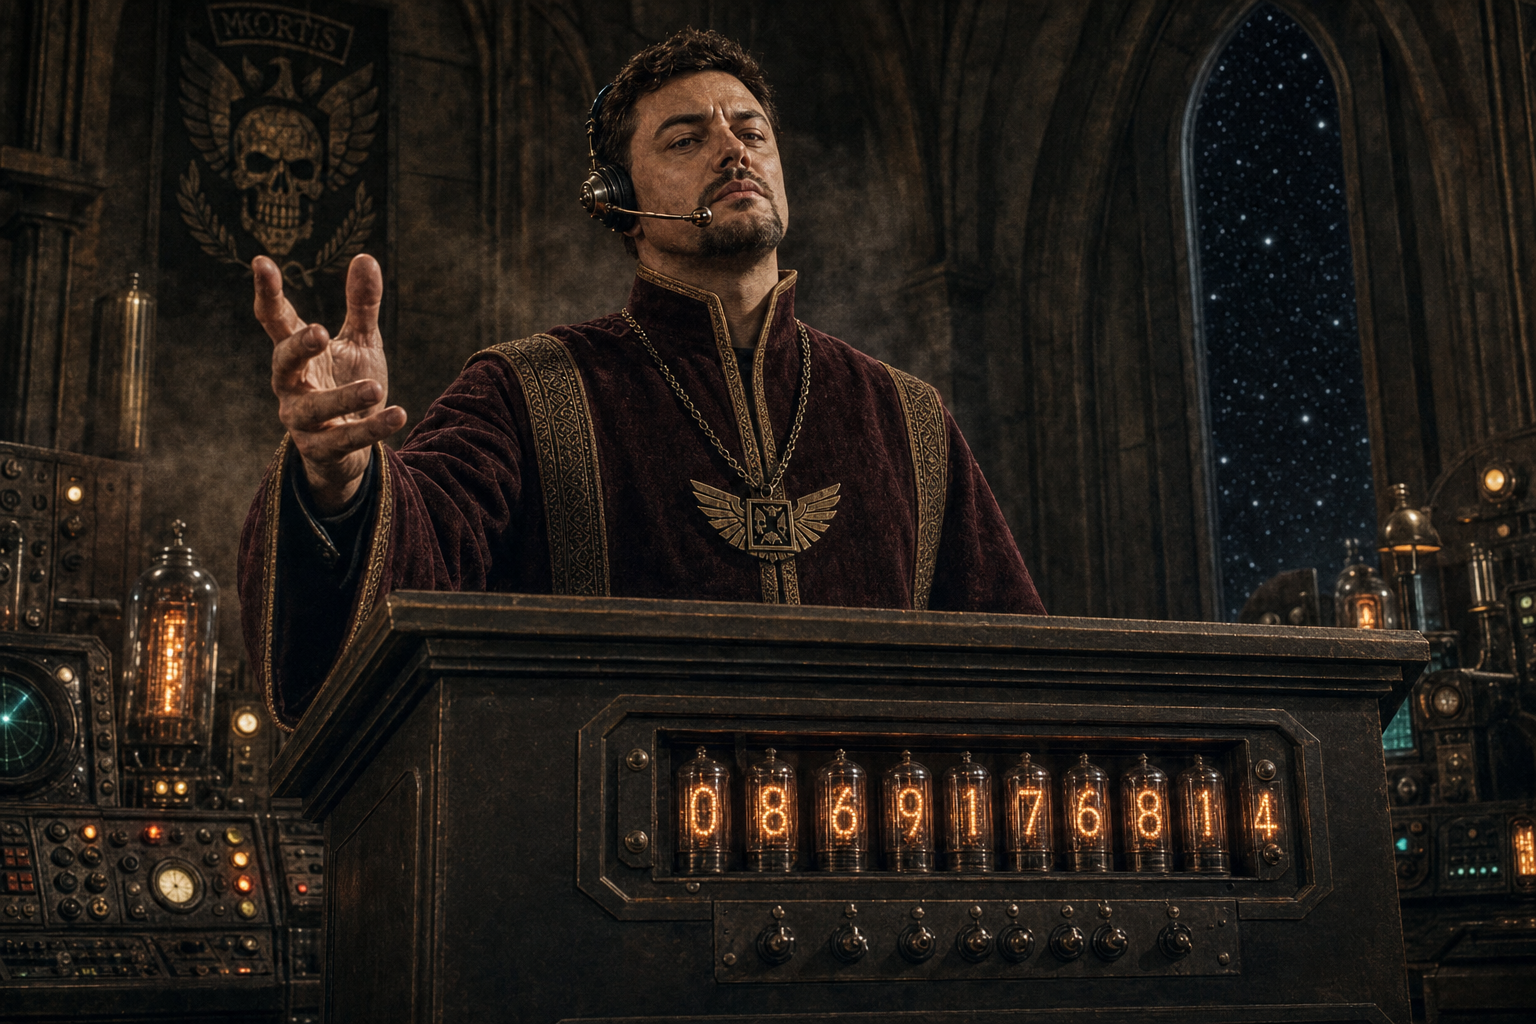
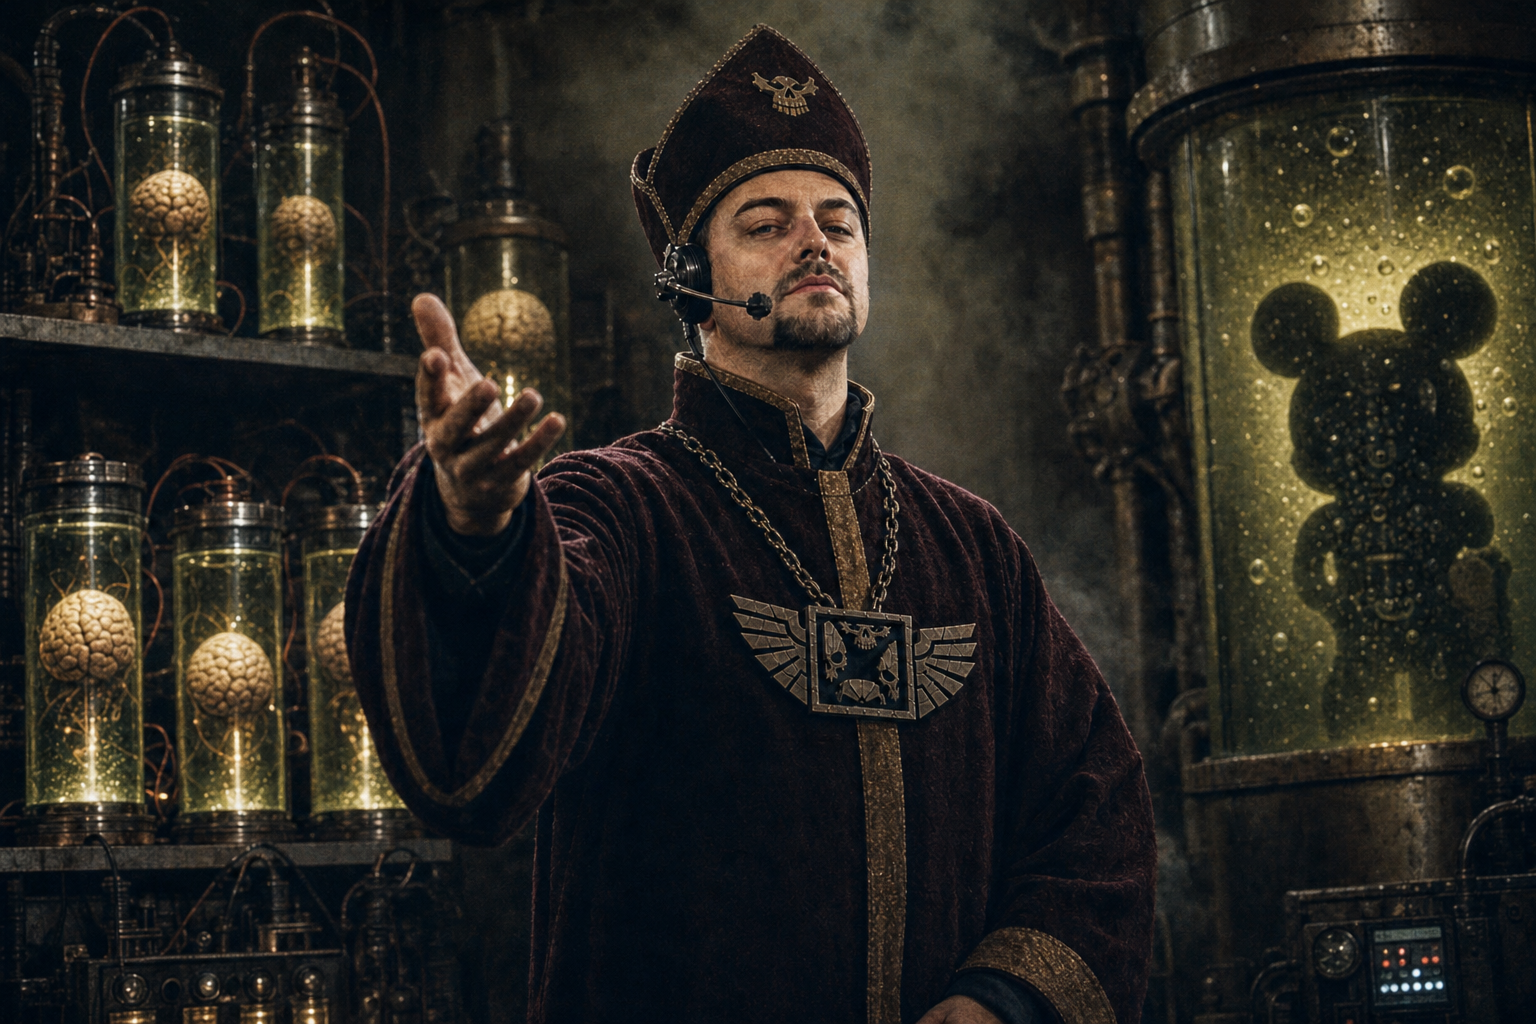
fix(presentation): remove duplicate navbar button, remove hero badge row, update Egor portrait to canonical v14

diff --git a/index.html b/index.html
@@ -1224,7 +1224,6 @@
           <li><a href="#universe">// Вселенная</a></li>
           <li><a href="#dramaturgy">// Драматургия & ML</a></li>
           <li><a href="#crew">// Табель о рангах</a></li>
-          <li><a href="#playable-area" class="active">Смотреть кибербуллинг</a></li>
         </ul>
       </nav>
 
@@ -1240,13 +1239,6 @@
   <section class="hero-section" id="hero">
     <div class="container hero-grid">
       <div class="hero-text-col">
-        <div class="hero-badge-row">
-          <div class="hero-pill">[ QUI CISTAM ]</div>
-          <div class="hero-pill hero-pill-green">[ ЕДИНАЯ ВСЕЛЕННАЯ ]</div>
-          <div class="hero-pill">[ ТЁМНЫЙ ОФЛАЙН-ПЛЕЙБОКС ]</div>
-          <div class="hero-pill" style="border-color: var(--accent-cyan); color: var(--accent-cyan);">[ AI-DRIVEN СИНЕРГИЯ ]</div>
-        </div>
-
         <h1 class="hero-title">
           <span class="glow-text">КИБЕРБУЛЛИНГ:</span><br>
           СЫГРАВШИЙ В ЯЩИК
@@ -1273,8 +1265,8 @@
 
         <div class="hero-stats">
           <div class="stat-card">
-            <div class="stat-val">22<span>+</span></div>
-            <div class="stat-lbl">Члена экипажа</div>
+            <div class="stat-val">19</div>
+            <div class="stat-lbl">Членов экипажа</div>
           </div>
           <div class="stat-card">
             <div class="stat-val">129<span>Д</span></div>
